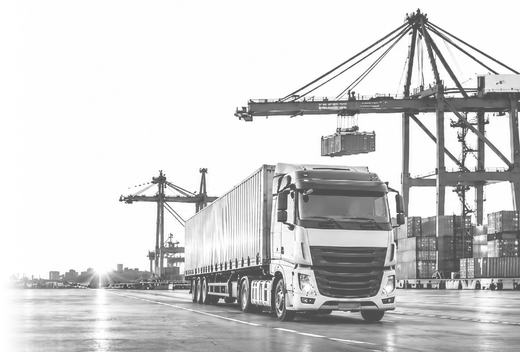
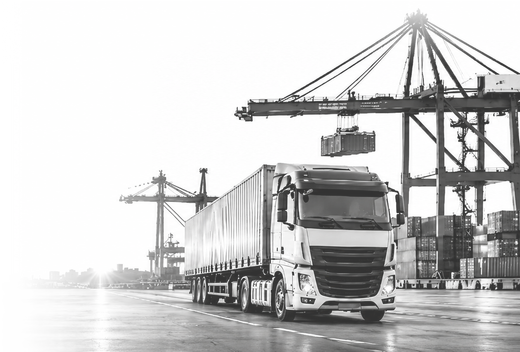
Signature Updates

diff --git a/public/email/signature.html b/public/email/signature.html
@@ -7,110 +7,118 @@
 <body style="margin: 0; padding: 16px; background-color: #f4f4f4;">
 
   <!-- START EMAIL SIGNATURE (Copy from this table for Outlook Web) -->
-  <table cellpadding="0" cellspacing="0" border="0" width="760" style="width: 760px; max-width: 760px; border-collapse: collapse; background-color: #ffffff; font-family: 'Segoe UI', 'Century Gothic', Arial, sans-serif; color: #111111;">
+  <table cellpadding="0" cellspacing="0" border="0" width="646" style="width: 646px; max-width: 646px; border-collapse: collapse; background-color: #ffffff; font-family: 'Segoe UI', 'Century Gothic', Arial, sans-serif; color: #111111;">
 
     <!-- ==================== TOP SECTION (LOGO + CONTACTS + TRUCK) ==================== -->
     <tr>
       <td style="padding: 0; margin: 0; vertical-align: top; background-color: #ffffff;">
-        <table cellpadding="0" cellspacing="0" border="0" width="760" style="width: 760px; max-width: 760px; border-collapse: collapse;">
+        <!-- WIDTHS: 190 + 10 + 446 = 646 (must always add up) -->
+        <table cellpadding="0" cellspacing="0" border="0" width="646" style="width: 646px; max-width: 646px; border-collapse: collapse; table-layout: fixed;">
           <tr>
 
-            <!-- 1. LEFT BRAND LOCKUP (narrower to free space for contacts) -->
-            <td style="width: 300px; vertical-align: middle; padding: 12px 0 12px 10px;">
+            <!-- 1. LEFT BRAND LOCKUP + NAME (190px) -->
+            <td width="190" style="width: 190px; vertical-align: middle; padding: 12px 0 12px 10px;">
               <table cellpadding="0" cellspacing="0" border="0" style="border-collapse: collapse;">
                 <tr>
-                  
-                  <td style="width: 40px; vertical-align: middle; padding-right: 6px;">
-                    <img src="https://www.cargoflowafrica.co.bw/email/logo-symbol.png" alt="Cargo Flow Africa" width="84" style="display: block; width: 84px; height: auto; border: 0;" />
+                  <td style="width: 64px; vertical-align: middle; padding-right: 6px;">
+                    <img src="https://www.cargoflowafrica.co.bw/email/logo-symbol.png" alt="Cargo Flow Africa" width="64" style="display: block; width: 64px; height: auto; border: 0;" />
                   </td>
-                 
-                  <td style="vertical-align: middle; text-align: left; color: #000000; padding-left: 4px;">
-                    <div style="font-size: 14px; font-weight: 800; line-height: 1.05; letter-spacing: 0.5px; text-transform: uppercase;">
+                  <td style="vertical-align: middle; text-align: left; color: #000000; padding-left: 2px; white-space: nowrap;">
+                    <div style="font-size: 12px; font-weight: 800; line-height: 1.05; letter-spacing: 0.4px; text-transform: uppercase; white-space: nowrap;">
                       CARGO FLOW
                     </div>
-                    <div style="font-size: 25px; font-weight: 900; line-height: 0.98; letter-spacing: 0.8px; text-transform: uppercase; margin: 1px 0 3px 0;">
+                    <div style="font-size: 22px; font-weight: 900; line-height: 0.98; letter-spacing: 0.6px; text-transform: uppercase; margin: 1px 0 3px 0; white-space: nowrap;">
                       AFRICA
                     </div>
-                    <div style="font-size: 9px; font-weight: 600; line-height: 1.1; letter-spacing: 2px; text-transform: uppercase;">
+                    <div style="font-size: 8px; font-weight: 600; line-height: 1.1; letter-spacing: 1.5px; text-transform: uppercase; white-space: nowrap;">
                       TRANSPORT GROUP
                     </div>
                   </td>
                 </tr>
 
-                <!-- Name & Title (now in the left table) -->
+                <!-- Name -->
                 <tr>
-                  <td colspan="3" style="padding-top: 10px; text-align: left;">
-                    <div style="font-size: 36px; font-weight: 900; line-height: 0.95; color: #000000; letter-spacing: 0.5px;">
+                  <td colspan="2" style="padding-top: 10px; text-align: left; white-space: nowrap;">
+                    <div style="font-size: 20px; font-weight: 900; line-height: 1.2; color: #000000; letter-spacing: 0.4px; white-space: nowrap;">
                       JUNIOR SITWALA
                     </div>
-                    
                   </td>
                 </tr>
               </table>
             </td>
 
-            <!-- 2. TALL GOLD DIVIDER -->
-            <td style="width: 12px; vertical-align: middle; padding: 14px 0 12px 0;">
-              <div style="width: 1px; height: 172px; border-left: 2px solid #D9B467;"></div>
+            <!-- 2. GOLD DIVIDER (10px) -->
+            <td width="10" style="width: 10px; vertical-align: middle; padding: 12px 0;">
+              <table cellpadding="0" cellspacing="0" border="0" width="2" height="138" style="width: 2px; height: 138px; border-collapse: collapse;">
+                <tr>
+                  <td width="2" height="138" bgcolor="#D9B467" style="width: 2px; height: 138px; background-color: #D9B467; font-size: 0; line-height: 0;">&nbsp;</td>
+                </tr>
+              </table>
             </td>
 
-            <!-- 3. CONTACT DETAILS + TRUCK (inline image so Outlook for Windows renders it) -->
-            <td width="508" height="196" valign="middle" bgcolor="#ffffff" style="width: 508px; height: 196px; vertical-align: middle; padding: 0 0 0 6px; background-color: #ffffff;">
-              <table cellpadding="0" cellspacing="0" border="0" style="border-collapse: collapse; width: 100%;">
+            <!-- 3. CONTACT DETAILS + TRUCK (446px) -->
+            <td width="446" height="160" valign="bottom" bgcolor="#ffffff" style="width: 446px; height: 160px; vertical-align: bottom; padding: 0; background-color: #ffffff;">
+              <table cellpadding="0" cellspacing="0" border="0" width="446" height="160" style="border-collapse: collapse; width: 446px; height: 160px;">
                 <tr>
+
+                  <!-- Contact details -->
                   <td valign="middle" style="vertical-align: middle; padding: 0;">
                     <table cellpadding="0" cellspacing="0" border="0" style="border-collapse: collapse;">
-                <!-- Phone -->
-                <tr>
-                  <td style="width: 24px; vertical-align: middle; padding-bottom: 6px;">
-                    <img src="https://www.cargoflowafrica.co.bw/email/phone.png" alt="Phone" width="18" height="18" style="display: block; width: 18px; height: 18px; border: 0;" />
-                  </td>
-                  <td style="vertical-align: middle; padding-bottom: 6px; font-size: 14px; font-weight: 800; color: #000000; white-space: nowrap; letter-spacing: 1.5px;">
-                    <a href="tel:+27817584591" style="color: #000000; text-decoration: none;">+27817584591</a>
-                    
-                  </td>
-                </tr>
+                      <!-- Title -->
+                      <tr>
+                        <td colspan="2" style="font-size: 18px; font-weight: 800; line-height: 1.25; color: #ffb20b; letter-spacing: 1px; white-space: nowrap; padding-bottom: 8px;">
+                          OPERATIONS MANAGER
+                        </td>
+                      </tr>
 
-                <!-- Website -->
-                <tr>
-                  <td style="width: 24px; vertical-align: middle; padding-bottom: 6px;">
-                    <img src="https://www.cargoflowafrica.co.bw/email/website.png" alt="Website" width="18" height="18" style="display: block; width: 18px; height: 18px; border: 0;" />
-                  </td>
-                  <td style="vertical-align: middle; padding-bottom: 6px; font-size: 14px; font-weight: 800; color: #000000; white-space: nowrap; letter-spacing: 1.5px;">
-                    <a href="https://www.cargoflowafrica.co.za" target="_blank" style="color: #000000; text-decoration: none;">www.cargoflowafrica.co.za</a>
-                  </td>
-                </tr>
+                      <!-- Phone -->
+                      <tr>
+                        <td style="width: 24px; vertical-align: middle; padding-bottom: 6px;">
+                          <img src="https://www.cargoflowafrica.co.bw/email/phone.png" alt="Phone" width="18" height="18" style="display: block; width: 18px; height: 18px; border: 0;" />
+                        </td>
+                        <td style="vertical-align: middle; padding-bottom: 6px; font-size: 14px; font-weight: 800; color: #000000; white-space: nowrap; letter-spacing: 0.5px;">
+                          <a href="tel:+27817584591" style="color: #000000; text-decoration: none;">+27817584591</a>
+                        </td>
+                      </tr>
 
-                <!-- Email -->
-                <tr>
-                  <td style="width: 24px; vertical-align: middle; padding-bottom: 6px;">
-                    <img src="https://www.cargoflowafrica.co.bw/email/email.png" alt="Email" width="18" height="18" style="display: block; width: 18px; height: 18px; border: 0;" />
-                  </td>
-                  <td style="vertical-align: middle; padding-bottom: 6px; font-size: 14px; font-weight: 800; color: #070707; white-space: nowrap; letter-spacing: 1.5px;">
-                    <a href="mailto:junior@cargoflowafrica.co.za" style="color: #000000; text-decoration: none;">junior@cargoflowafrica.co.za</a>
-                  </td>
-                </tr>
+                      <!-- Website -->
+                      <tr>
+                        <td style="width: 24px; vertical-align: middle; padding-bottom: 6px;">
+                          <img src="https://www.cargoflowafrica.co.bw/email/website.png" alt="Website" width="18" height="18" style="display: block; width: 18px; height: 18px; border: 0;" />
+                        </td>
+                        <td style="vertical-align: middle; padding-bottom: 6px; font-size: 14px; font-weight: 800; color: #000000; white-space: nowrap; letter-spacing: 0.5px;">
+                          <a href="https://www.cargoflowafrica.co.za" target="_blank" style="color: #000000; text-decoration: none;">www.cargoflowafrica.co.za</a>
+                        </td>
+                      </tr>
 
-                <!-- Location -->
-                <tr>
-                  <td style="width: 24px; vertical-align: top; padding-top: 1px;">
-                    <img src="https://www.cargoflowafrica.co.bw/email/location_pin.png" alt="Location" width="18" height="18" style="display: block; width: 18px; height: 18px; border: 0;" />
-                  </td>
-                  <td style="vertical-align: top; font-size: 14px; font-weight: 800; line-height: 1.25; color: #000000; letter-spacing: 1.5px;">
-                    Plot 1447 Gaborone west<br />Industrial
-                  </td>
+                      <!-- Email -->
+                      <tr>
+                        <td style="width: 24px; vertical-align: middle; padding-bottom: 6px;">
+                          <img src="https://www.cargoflowafrica.co.bw/email/email.png" alt="Email" width="18" height="18" style="display: block; width: 18px; height: 18px; border: 0;" />
+                        </td>
+                        <td style="vertical-align: middle; padding-bottom: 6px; font-size: 14px; font-weight: 800; color: #000000; white-space: nowrap; letter-spacing: 0.5px;">
+                          <a href="mailto:junior@cargoflowafrica.co.za" style="color: #000000; text-decoration: none;">junior@cargoflowafrica.co.za</a>
+                        </td>
+                      </tr>
 
-                </tr>
-                <tr>
-                  <td colspan="2" style="font-size: 18px; font-weight: 800; line-height: 1.25; color: #ffb20b; letter-spacing: 1.2px; white-space: nowrap; padding-top: 2px; padding-bottom: 13px;">
-                    OPERATIONS MANAGER
-                  </td>
-                </tr>
+                      <!-- Location -->
+                      <tr>
+                        <td style="width: 24px; vertical-align: top; padding-top: 1px;">
+                          <img src="https://www.cargoflowafrica.co.bw/email/location_pin.png" alt="Location" width="18" height="18" style="display: block; width: 18px; height: 18px; border: 0;" />
+                        </td>
+                        <td style="vertical-align: top; font-size: 14px; font-weight: 800; line-height: 1.25; color: #000000; letter-spacing: 0.5px; white-space: nowrap;">
+                          Plot 1447 Gaborone west<br />Industrial
+                        </td>
+                      </tr>
+
                     </table>
                   </td>
-                  <td width="220" valign="bottom" style="width: 220px; vertical-align: bottom; padding: 0;">
-                    <img src="https://www.cargoflowafrica.co.bw/email/truck1.png" alt="" width="220" height="149" style="display: block; width: 220px; height: 149px; border: 0;" />
+
+                  <!-- Truck (inline image, flush right on the black bar) -->
+                  <td width="190" align="right" valign="bottom" style="width: 190px; text-align: right; vertical-align: bottom; padding: 0; line-height: 0; font-size: 0;">
+                    <img src="https://www.cargoflowafrica.co.bw/email/truck1.png" alt="Cargo Flow Logistics Truck" width="190" height="128" style="display: block; width: 190px; height: 128px; border: 0;" />
                   </td>
+
                 </tr>
               </table>
             </td>
